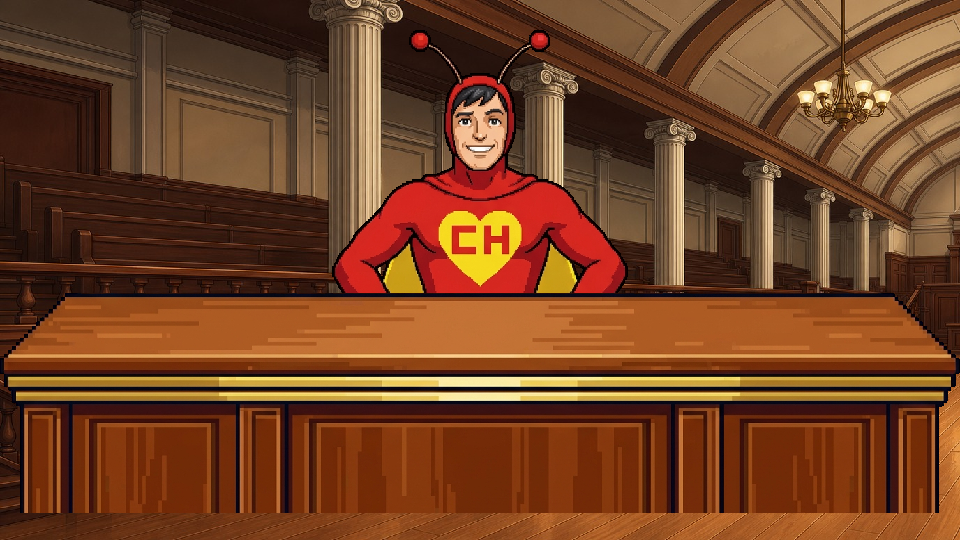
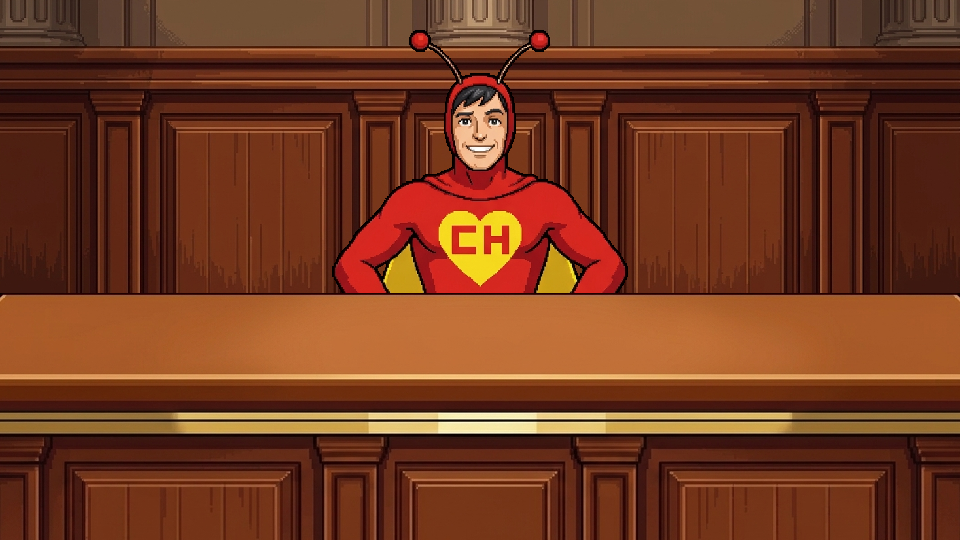
s

diff --git a/tests/engine/StageLayout.test.ts b/tests/engine/StageLayout.test.ts
@@ -24,7 +24,7 @@ const STAGE_H = 540;
  * container's top edge and the hand-contact line are the same line. Any rows
  * above that outline would paint a flat strip in front of the character.
  */
-const BENCH_SRC = { w: 1353, h: 528, surfaceTop: 6, surfaceBottom: 86 };
+const BENCH_SRC = { w: 1060, h: 641, surfaceTop: 3, surfaceBottom: 90 };
 
 /**
  * Content bounds inside the 512x512 chapulin_slam.png frame, as fractions of the
@@ -137,7 +137,7 @@ describe('StageLayout composition frames', () => {
     expect(dom.gameScreen.style.getPropertyValue('--char-baseline')).toBe('37.60%');
     expect(dom.gameScreen.style.getPropertyValue('--char-layer')).toBe('4');
     expect(dom.gameScreen.style.getPropertyValue('--furniture-width')).toBe('100.00%');
-    expect(dom.gameScreen.style.getPropertyValue('--furniture-height')).toBe('40.70%');
-    expect(dom.gameScreen.style.getPropertyValue('--furniture-baseline')).toBe('5.00%');
+    expect(dom.gameScreen.style.getPropertyValue('--furniture-height')).toBe('45.70%');
+    expect(dom.gameScreen.style.getPropertyValue('--furniture-baseline')).toBe('0.00%');
   });
 });

diff --git a/src/engine/Private/StageLayout.ts b/src/engine/Private/StageLayout.ts
@@ -72,8 +72,8 @@ export const STAGE_FRAMES: Record<StageFrameId, StageFrame> = {
     characterBaseline: 0.34,
     characterLayer: 2,
     furnitureWidth: 1,
-    furnitureHeight: 0.407,
-    furnitureBaseline: 0.05,
+    furnitureHeight: 0.457,
+    furnitureBaseline: 0,
     surfaceContact: false
   },
   'bench-slam': {
@@ -85,8 +85,8 @@ export const STAGE_FRAMES: Record<StageFrameId, StageFrame> = {
     characterBaseline: 0.376,
     characterLayer: 4,
     furnitureWidth: 1,
-    furnitureHeight: 0.407,
-    furnitureBaseline: 0.05,
+    furnitureHeight: 0.457,
+    furnitureBaseline: 0,
     surfaceContact: true
   },
   podium: {

diff --git a/process_assets.py b/process_assets.py
@@ -15,7 +15,9 @@ import numpy as np
 from PIL import Image
 from scipy import ndimage
 
-CURRENT_ARTIFACT_DIR = r"C:\Users\luiso\.gemini\antigravity\brain\08f107f5-df93-448c-9eb8-753b2f2f4634"
+CURRENT_ARTIFACT_DIR = r"C:\Users\luiso\.gemini\antigravity\brain\3f1cace1-70b9-41d6-a3a5-40ae385364fc"
+PREV_ARTIFACT_DIR_3 = r"C:\Users\luiso\.gemini\antigravity\brain\0904b11c-4c33-4084-907e-e27c0820bf0f"
+PREV_ARTIFACT_DIR_2 = r"C:\Users\luiso\.gemini\antigravity\brain\08f107f5-df93-448c-9eb8-753b2f2f4634"
 PREV_ARTIFACT_DIR_1 = r"C:\Users\luiso\.gemini\antigravity\brain\91e780e1-ee3d-4c04-949d-db65c67e0f4d"
 PREV_ARTIFACT_DIR = r"C:\Users\luiso\.gemini\antigravity\brain\7d7a0700-41bc-4655-a94e-d886430a5c04"
 LEGACY_ARTIFACT_DIR = r"C:\Users\luiso\.gemini\antigravity\brain\d6601f43-c0ae-494d-bbf8-ca413b3a64ed"
@@ -23,7 +25,7 @@ DEST_DIR = r"c:\Proyectos\ace-attorney-gemini\assets"
 os.makedirs(DEST_DIR, exist_ok=True)
 
 def find_asset_file(filename: str) -> str:
-    for d in [CURRENT_ARTIFACT_DIR, PREV_ARTIFACT_DIR_1, PREV_ARTIFACT_DIR, LEGACY_ARTIFACT_DIR]:
+    for d in [CURRENT_ARTIFACT_DIR, PREV_ARTIFACT_DIR_3, PREV_ARTIFACT_DIR_2, PREV_ARTIFACT_DIR_1, PREV_ARTIFACT_DIR, LEGACY_ARTIFACT_DIR]:
         p = os.path.join(d, filename)
         if os.path.exists(p):
             return p
@@ -392,9 +394,9 @@ def run_all_fixes():
     # paint a solid strip across the frame in front of the character. See
     # docs/lessons-learned/decoupled-character-furniture-sprites.md
     process_standalone_prop(
-        "court_bench_front_1787543219060.jpg",
+        "court_bench_hd_1787628231232.jpg",
         "court_bench.png",
-        crop_box=(12, 232, 1365, 760)
+        crop_box=(158, 127, 1218, 768)
     )
 
     # 7. Objection Cut-Ins
@@ -413,7 +415,7 @@ def run_all_fixes():
         ("museum_crime_scene_1787377814093.jpg", "bg_museum.jpg"),
         ("detention_center_room_1787377837506.jpg", "bg_detention.jpg"),
         ("courtroom_scenes_1787377789540.jpg", "bg_courtroom.jpg"),
-        ("bg_defense.jpg", "bg_defense.jpg")
+        ("bg_defense_wood_wall_1787626957213.jpg", "bg_defense.jpg")
     ]
     for src, dst in bgs:
         src_p = find_asset_file(src)

diff --git a/tools/preview_composite.py b/tools/preview_composite.py
@@ -15,9 +15,9 @@ FRAMES = {
     "plain": dict(char_h=0.62, char_base=0.13, char_over=False,
                   furn_w=0.0, furn_h=0.0, furn_base=0.0),
     "bench-stand": dict(char_h=0.62, char_base=0.34, char_over=False,
-                        furn_w=1.0, furn_h=0.407, furn_base=0.05),
+                        furn_w=1.0, furn_h=0.457, furn_base=0.0),
     "bench-slam": dict(char_h=0.62, char_base=0.376, char_over=True,
-                       furn_w=1.0, furn_h=0.407, furn_base=0.05),
+                       furn_w=1.0, furn_h=0.457, furn_base=0.0),
     "podium": dict(char_h=0.62, char_base=0.18, char_over=False,
                    furn_w=0.75, furn_h=0.42, furn_base=0.0),
 }

diff --git a/docs/specs/artistic-direction.md b/docs/specs/artistic-direction.md
@@ -83,7 +83,7 @@ graph TD
 
 ### 1. Courtroom Environments (`bg_defense.jpg`, `bg_courtroom.jpg`, `bg_witness.jpg`, `bg_judge.jpg`)
 * **Palette**: Mahogany wood (`#3D2314`), Gilded Brass (`#C5A059`), Classical Stone Grey (`#7F8C8D`), Warm Amber Lighting (`#F39C12`).
-* **Atmosphere**: Grand judicial hall with classical arches, elevated witness podium, and prominent Scales of Justice wall carvings. `bg_defense.jpg` is the left side of that hall from the well: open floor, the elevated spectator gallery, a receding colonnade. Windows exist only on the far wall behind the judge, so this camera never shows them. Do not flatten it into a dead-end wall.
+* **Atmosphere**: Grand judicial hall with classical arches, elevated witness podium, and prominent Scales of Justice wall carvings. `bg_defense.jpg` captures the defense stand's close-up wooden wall: rich mahogany wainscoting panels and vertical wood planks matching the woodwork of the courtroom.
 
 ### 2. Museum of Curiosities (`bg_museum.jpg`)
 * **Palette**: Rich Burgundy Carpeting (`#78281F`), Night Blue Moonlight (`#1B4F72`), Ornate Walnut (`#4A235A`), Caution Gold (`#F4D03F`).
